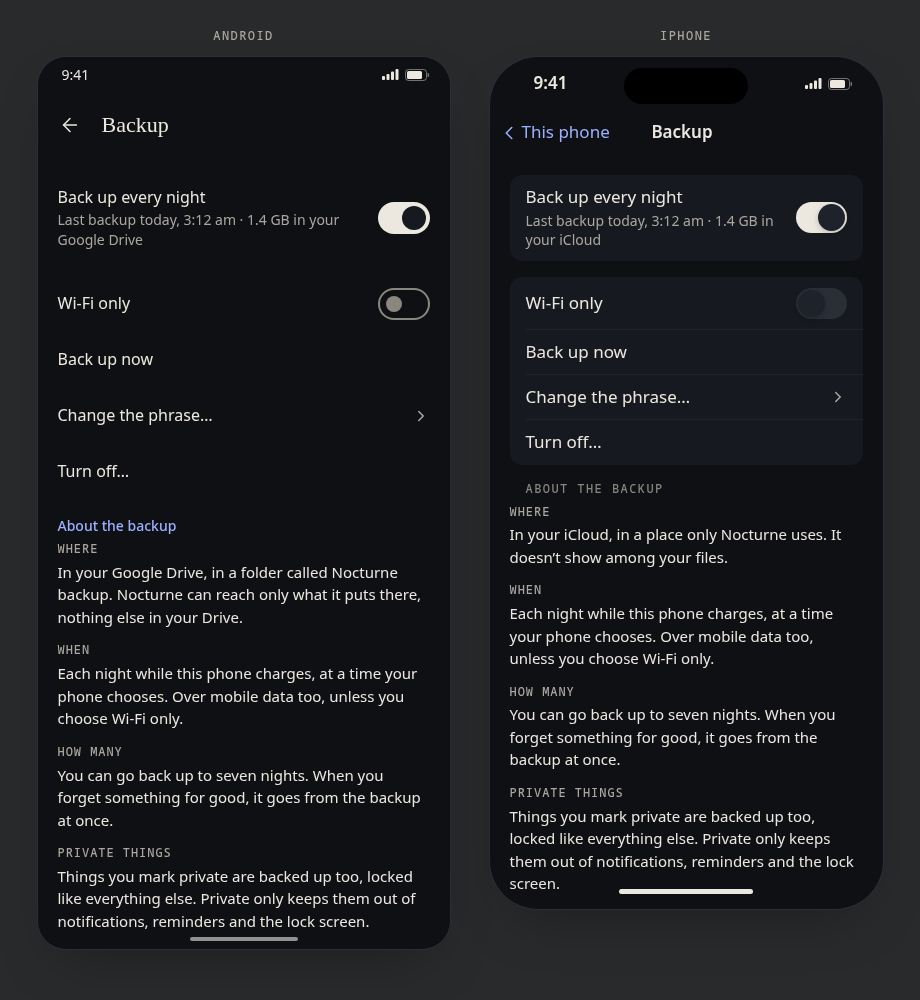
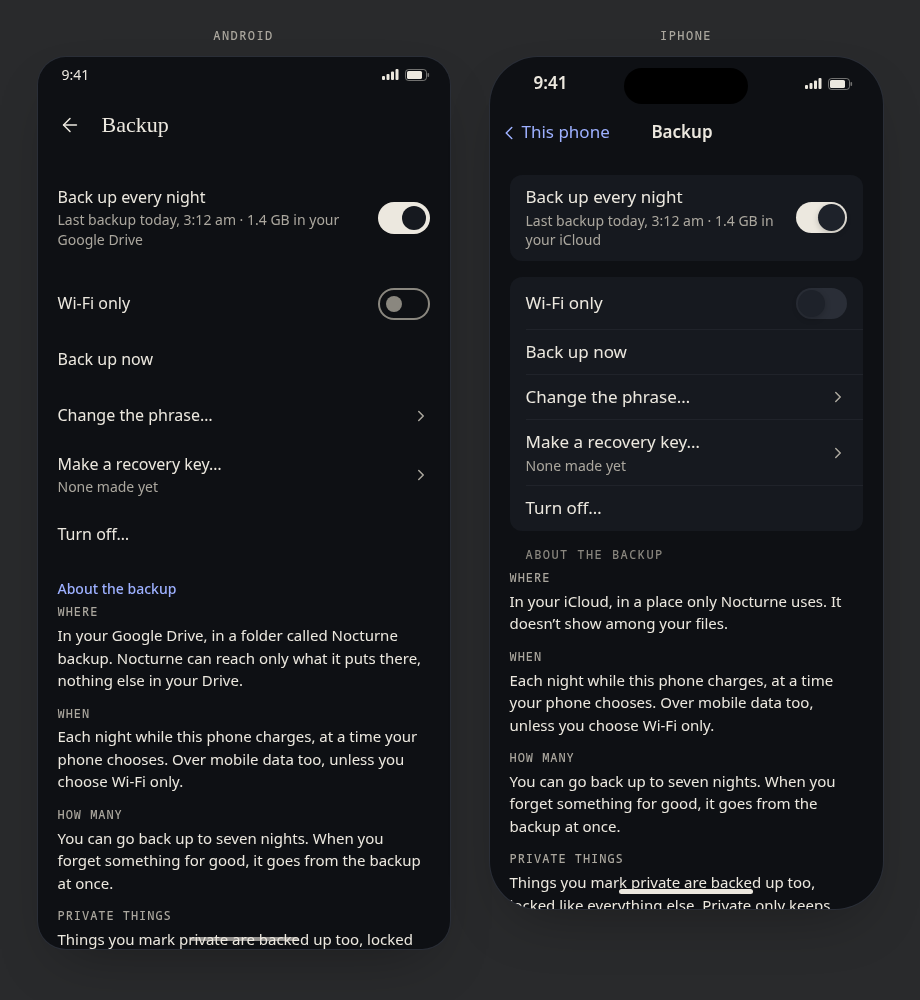
docs(design): settle the phone backup questions

Changed region(s): [[0.0609, 0.527, 0.4565, 0.961], [0.5478, 0.434, 0.913, 0.93], [0.0609, 0.465, 0.1826, 0.496]]

diff --git a/docs/design/mockups/phone-parity/copy-online.html b/docs/design/mockups/phone-parity/copy-online.html
@@ -16,12 +16,14 @@
   "wifi": { "title": "Backup", "back": "This phone" },
   "stopped": { "title": "Backup", "back": "This phone" },
   "off": { "title": "Backup", "back": "This phone" },
+  "makekey": { "title": "Backup", "back": "This phone" },
+  "newkey": { "bar": "none" },
   "today": { "bar": "brand", "title": "Today", "tab": "Today", "keep": true, "action": true },
   "delete": { "bar": "modal", "title": "Delete everything", "back": "Cancel" }
 }
 </script>
 </head>
-<body data-frame="duo" data-states="why blocked passphrase own check key first done on wifi stopped today off delete">
+<body data-frame="duo" data-states="why blocked passphrase own check key first done on wifi stopped today off makekey newkey delete">
 <main id="content">
 
   <!-- Step 1: why, and when it can't go on -->
@@ -109,11 +111,11 @@
   <div class="foot plain" data-state="done"><span class="btn" data-kind="primary">OK</span></div>
 
   <!-- This phone: Backup -->
-  <div class="group" data-state="on wifi stopped off">
+  <div class="group" data-state="on wifi stopped off makekey">
     <div class="rows">
       <div class="row"><span class="rowText"><span class="rowLabel">Back up every night</span>
-        <span class="rowHint" data-state="on off" data-os="ios">Last backup today, 3:12 am · 1.4 GB in your iCloud</span>
-        <span class="rowHint" data-state="on off" data-os="android">Last backup today, 3:12 am · 1.4 GB in your Google Drive</span>
+        <span class="rowHint" data-state="on off makekey" data-os="ios">Last backup today, 3:12 am · 1.4 GB in your iCloud</span>
+        <span class="rowHint" data-state="on off makekey" data-os="android">Last backup today, 3:12 am · 1.4 GB in your Google Drive</span>
         <span class="rowHint" data-state="wifi">Last backup Sunday, 2:40 am · waiting for Wi-Fi</span>
         <span class="rowHint" data-state="stopped">Stopped · last backup Friday, 3:05 am</span>
       </span><span class="sw"></span></div>
@@ -122,11 +124,12 @@
     <div class="say" data-state="stopped" data-os="ios">There’s no room in your iCloud for tonight’s backup. Your last backup from Friday is still there. <span class="link2">Open iCloud settings</span></div>
     <div class="say" data-state="stopped" data-os="android">The Google account your backup uses isn’t on this phone any more, so the backup has stopped. <span class="link2">Choose account</span></div>
   </div>
-  <div class="group" data-state="on wifi stopped off">
+  <div class="group" data-state="on wifi stopped off makekey">
     <div class="rows">
-      <div class="row"><span class="rowText"><span class="rowLabel">Wi-Fi only</span></span><span class="sw off" data-state="on stopped off"></span><span class="sw" data-state="wifi"></span></div>
+      <div class="row"><span class="rowText"><span class="rowLabel">Wi-Fi only</span></span><span class="sw off" data-state="on stopped off makekey"></span><span class="sw" data-state="wifi"></span></div>
       <div class="row"><span class="rowText"><span class="rowLabel">Back up now</span></span></div>
       <div class="row"><span class="rowText"><span class="rowLabel">Change the phrase…</span></span><span class="rowChev" data-icon="chevron-right" data-size="18"></span></div>
+      <div class="row"><span class="rowText"><span class="rowLabel">Make a recovery key…</span><span class="rowHint">None made yet</span></span><span class="rowChev" data-icon="chevron-right" data-size="18"></span></div>
       <div class="row"><span class="rowText"><span class="rowLabel">Turn off…</span></span></div>
     </div>
   </div>
@@ -151,6 +154,24 @@
       <div class="btns"><span class="btn" data-kind="primary">Turn off</span><span class="btn" data-kind="quiet">Keep it on</span></div>
     </div>
   </div>
+
+  <!-- Make a recovery key -->
+  <div class="over" data-state="makekey">
+    <div class="sheetCard">
+      <h2>Make a recovery key?</h2>
+      <p>A recovery key opens your backup if you lose your phrase. It is shown once. If you made one before, it stops working.</p>
+      <div class="btns"><span class="btn" data-kind="primary">Make it</span><span class="btn" data-kind="quiet">Cancel</span></div>
+    </div>
+  </div>
+
+  <!-- A recovery key, made later -->
+  <div class="hero" data-state="newkey" style="padding-top: 40px">
+    <span data-icon="shield" data-size="32"></span>
+    <h1 class="stepH">Your new recovery key</h1>
+    <p class="plead">It opens your backup if you lose your phrase. Print it or save it, and keep it away from this phone. An earlier key no longer works.</p>
+  </div>
+  <p class="rkey" data-state="newkey"><span>M3TD</span> <span>7KWQ</span> <span>4HXN</span> <span>R9CP</span> <span>2BZL</span> <span>8VFG</span></p>
+  <div class="foot plain" data-state="newkey"><span class="btn" data-kind="primary">Print or save…</span><span class="btn" data-kind="quiet">Cancel</span><p class="barLine">Nocturne shows this only once.</p></div>
 
   <!-- Today: the backup has stopped -->
   <p class="pstatus" data-state="today"><span class="pdot"></span>Your memory is on this phone</p>

diff --git a/docs/design/mockups/phone-parity/index.html b/docs/design/mockups/phone-parity/index.html
@@ -35,6 +35,8 @@
     <li><a href="copy-online.html?state=stopped">Stopped</a></li>
     <li><a href="copy-online.html?state=today">Today, the backup has stopped</a></li>
     <li><a href="copy-online.html?state=off">Turn off backup?</a></li>
+    <li><a href="copy-online.html?state=makekey">Make a recovery key?</a></li>
+    <li><a href="copy-online.html?state=newkey">Your new recovery key</a></li>
     <li><a href="copy-online.html?state=delete">Delete everything, with a backup</a></li>
     <li><a href="copy-online-restore.html?state=where">Where is your backup?</a></li>
     <li><a href="copy-online-restore.html?state=found">Bring back your memory</a></li>

diff --git a/docs/design/phone-backup.md b/docs/design/phone-backup.md
@@ -1,7 +1,7 @@
 ---
 type: Design
 title: Backup on a phone of its own
-description: Proposal for the nightly backup of a phone that is its own home, to the person's own iCloud or Google Drive, locked with a phrase only they hold, with every screen and state of turning it on, This phone, turning it off, restoring onto an empty phone or bringing a backup into a phone that already holds a memory, forgetting and Delete everything, copy, behaviour and open questions.
+description: Proposal for the nightly backup of a phone that is its own home, to the person's own iCloud or Google Drive, locked with a phrase only they hold, with every screen and state of turning it on, This phone, turning it off, restoring onto an empty phone or bringing a backup into a phone that already holds a memory, forgetting and Delete everything, copy, behaviour and the owner's decisions.
 status: draft
 tags: [proposal, ux, phone, backup, privacy, copy]
 ---
@@ -24,7 +24,7 @@ its own action.
 | "Wi-Fi only" is a setting, off by default | [Step 3](#step-3-check-the-phrase), [This phone](#backup-in-this-phone) |
 | The phone's own account: the app's own iCloud space on iPhone; the person's Google Drive, only the files Nocturne makes, on Android, with Google's one-time permission | [Where it goes](#where-it-goes) |
 | A random phrase of six words, or the person's own, shown once and confirmed | [Step 2](#step-2-the-phrase), [Step 3](#step-3-check-the-phrase) |
-| An optional recovery key | [A recovery key](#a-recovery-key-offered-once) |
+| An optional recovery key, offered at turn on and made later in This phone | [A recovery key](#a-recovery-key-offered-once), [Make a recovery key](#make-a-recovery-key) |
 | Export is separate | [Backups to a file](phone-first.md#backups-to-a-file), unchanged |
 | Restore onto a new or reset phone | [Onto an empty phone](#onto-an-empty-phone) |
 | Restore onto a phone that already holds a memory brings the backup's things in, as a move into a computer that holds one does | [Onto a phone that has a memory](#onto-a-phone-that-has-a-memory) |
@@ -53,6 +53,8 @@ cent, the screen grown to show all of it) work on every state.
 | This phone, stopped: no room; signed out | `copy-online.html?state=stopped` | `copy-online-stopped-light.png` |
 | Today, the backup has stopped | `copy-online.html?state=today` | `copy-online-today-light.png` |
 | Turn off backup? | `copy-online.html?state=off` | `copy-online-off-light.png` |
+| Make a recovery key? | `copy-online.html?state=makekey` | `copy-online-makekey-light.png` |
+| Your new recovery key | `copy-online.html?state=newkey` | `copy-online-newkey-light.png` |
 | Delete everything, with a backup | `copy-online.html?state=delete` | `copy-online-delete-light.png` |
 | Where is your backup? | `copy-online-restore.html?state=where` | `copy-online-restore-where-light.png` |
 | Found: type the phrase | `copy-online-restore.html?state=found` | `copy-online-restore-found-light.png`, `copy-online-restore-found-dark.png`, `copy-online-restore-found-200-light.png` |
@@ -233,7 +235,8 @@ again: it is not kept on the phone in a form that can be shown.
 
 ### A recovery key, offered once
 
-Straight after "Turn on", once, and never again unprompted:
+Straight after "Turn on", once, and never again unprompted. A person who says "Not now" can make one
+later with [Make a recovery key](#make-a-recovery-key):
 
 | Part | Copy |
 |---|---|
@@ -284,6 +287,7 @@ Under Your memory, the row "Backup" shows "Off" or the up to date line, and open
 | Row | "Wi-Fi only" (switch) |
 | Row | "Back up now" / while it runs: "Backing up · {done} of {size}" |
 | Row | "Change the phrase…" |
+| Row | "Make a recovery key…" / hint "None made yet", or "Made {day}" |
 | Row | "Turn off…" |
 | About heading | "About the backup", then the expander's labels and lines from "Where" to "A phone that already has a memory" |
 
@@ -331,6 +335,26 @@ No system notifications about the backup. On Today, as one card, at most once fo
 recovery key you saved still works." / "Change it" · "Cancel". Then steps 2 and 3, with "Save" for
 "Turn on". The key is locked again with the new phrase in the next backup; nothing else is sent
 again.
+
+### Make a recovery key
+
+"Make a recovery key…" is for a person who said "Not now" when it was offered, or who lost a key
+they made. It asks first, then shows the key once, as at turn on.
+
+| Part | Copy |
+|---|---|
+| Ask, title | "Make a recovery key?" |
+| Ask, body | "A recovery key opens your backup if you lose your phrase. It is shown once. If you made one before, it stops working." |
+| Ask, buttons | "Make it" · "Cancel" |
+| Title | "Your new recovery key" |
+| Body | "It opens your backup if you lose your phrase. Print it or save it, and keep it away from this phone. An earlier key no longer works." |
+| Key | Six groups of four letters and numbers, in large type |
+| Buttons | "Print or save…" (the phone's own print and share sheet) · "Cancel" |
+| Foot | "Nocturne shows this only once." |
+
+The new key locks the same backup key as the phrase does, in the next backup; nothing else is sent
+again. "Cancel" before "Print or save…" keeps the earlier key, if any. After it the button reads
+"Done". The row's hint reads "None made yet" until a key is made, then "Made {day}".
 
 ### Turn off
 
@@ -488,6 +512,11 @@ The words below follow that screen's.
 
 "Not now" leaves the phone exactly as it was.
 
+This is the one restore on a phone that has a memory, for a backup from the account and for a backup
+file alike. The first release's "Put aside" restore ends with the release that ships the nightly
+backup; what it already put aside stays as it is. Once the things are in, there is no undo: nothing
+that was on the phone is lost, and anything that came in can be forgotten like any other thing.
+
 | Stage | Copy |
 |---|---|
 | Preparing | "Bringing in your backup" / "Getting your things ready…" with a moving bar and "Stop" |
@@ -616,12 +645,14 @@ When the nightly backup ships, these first release screens change; nothing chang
 | This phone, "Restore a backup…" | Hint "A backup’s things join what’s on this phone. Nothing here is deleted." |
 | Delete everything | [As above](#forgetting-delete-everything-and-private) |
 
-## Open questions for the owner
+## Decisions
 
-| # | Question | Options | Recommendation |
-|---|---|---|---|
-| 1 | A backup file restored onto a phone that has a memory: the first release puts what is there aside (0013's replace) | A: switch it to the same bringing in, so a phone has one restore. B: keep replace for files | **A**, from the release that ships this backup; "Put aside" screens stay for what was put aside before |
-| 2 | A person who said "Not now" to the recovery key | A: "Make a recovery key…" in This phone, which replaces any earlier key, shown once. B: offered only at turn on | **A**: losing the phrase should not depend on one tap months earlier |
-| 3 | Delete everything while the phone is offline | A: delete the phone at once, the backup when next online, as designed. B: ask the person to go online first | **A**: Delete everything never waits; the line says what is left and how to remove it by hand |
-| 4 | A backup that stops for something only the person can fix | A: once on Today, no system notification, as designed. B: also a system notification | **A**, the calm presence principle |
-| 5 | Undoing a restore that brought things in | A: not offered, as with a computer bringing a phone's things in. B: put a copy of the phone aside first | **A**: nothing on the phone is lost, and anything that came in can be forgotten |
+Settled by the owner on 2026-11-24, each as recommended.
+
+| # | Decision | Where it lands |
+|---|---|---|
+| 1 | A backup file restored onto a phone that has a memory brings its things in, as a backup from the account does, from the release that ships the nightly backup. A phone has one restore. "Put aside" screens stay for what was put aside before | [Onto a phone that has a memory](#onto-a-phone-that-has-a-memory) |
+| 2 | A person who said "Not now" to the recovery key can make one later with "Make a recovery key…" in This phone. It replaces any earlier key and is shown once | [Make a recovery key](#make-a-recovery-key) |
+| 3 | Delete everything while the phone is offline deletes the phone at once and the backup when next online. The line says what is left and how to remove it by hand | [Delete everything, with a backup](#forgetting-delete-everything-and-private) |
+| 4 | A backup that stops for something only the person can fix shows once on Today, with no system notification | [On Today](#on-today) |
+| 5 | A restore that brought things in has no undo. Nothing on the phone was lost, and anything that came in can be forgotten | [Onto a phone that has a memory](#onto-a-phone-that-has-a-memory) |

diff --git a/docs/design/phone-parity.md b/docs/design/phone-parity.md
@@ -40,7 +40,7 @@ of the design. All names and data are fictional.
 |---|---|---|
 | First run on a phone, and Today with no mind | `first-run.html`: `welcome`, `start`, `today`, `ask` | [Phone first](phone-first.md#screens) |
 | The first release of a phone alone | `first-release.html`: `welcome`, `start`, `today`, `reminder`, `full`, `ask`, `mind`, `backup`, `saved`, `restore`, `item`, `this-phone`, `calendar`, `health`, `delete`, `damaged` | [Phone first](phone-first.md#mockups-for-the-first-release) |
-| Backup (a locked copy online) | `copy-online.html`: `why`, `blocked`, `passphrase`, `own`, `check`, `key`, `first`, `done`, `on`, `wifi`, `stopped`, `today`, `off`, `delete`; `copy-online-restore.html`: `where`, `found`, `nights`, `wrong`, `none`, `getting`, `missing`, `restored`, `in-use`, `merge`, `adding`, `merged` | [Phone backup](phone-backup.md#mockups) |
+| Backup (a locked copy online) | `copy-online.html`: `why`, `blocked`, `passphrase`, `own`, `check`, `key`, `first`, `done`, `on`, `wifi`, `stopped`, `today`, `off`, `makekey`, `newkey`, `delete`; `copy-online-restore.html`: `where`, `found`, `nights`, `wrong`, `none`, `getting`, `missing`, `restored`, `in-use`, `merge`, `adding`, `merged` | [Phone backup](phone-backup.md#mockups) |
 | Choosing a mind | `mind.html`: `choose`, `service`, `consent`, `apple`, `first-page` | [Phone first](phone-first.md#choosing-a-mind) |
 | Joining a household, and a passphrase for making it your home | `household.html`: `found`, `see`, `passphrase`, `words`, `joined` | [Household](household-server.md#joining) |
 | The mind is away | `away.html`: `today`, `journal`, `back`, `removed` | [Household](household-server.md#states) |

diff --git a/docs/logs/2026-11/24-settled-the-phone-backup-questions.md b/docs/logs/2026-11/24-settled-the-phone-backup-questions.md
@@ -1,0 +1,21 @@
+---
+type: Log Entry
+title: "Settled the phone backup's open questions."
+description: "A recovery key can be made later in This phone, a backup file restored onto a phone with a memory brings its things in, and the other three questions stay as designed."
+tags: [log, update]
+kind: Changed
+status: stable
+---
+
+The owner settled the five open questions of [Backup on a phone of its own](/design/phone-backup.md#decisions),
+each as recommended.
+
+- A recovery key can be made later in This phone with "Make a recovery key…". It replaces any earlier
+  key and shows the new one once. The page gains its copy and two mockup states.
+- A backup file restored onto a phone that has a memory brings its things in, as a backup from the
+  account does, from the release that ships the nightly backup.
+- Delete everything while offline deletes the phone at once and the backup when next online.
+- A stopped backup shows once on Today, with no notification.
+- A restore that brought things in has no undo.
+
+The page's open questions are now its decisions.

diff --git a/docs/adr/0019-a-locked-copy-online.md b/docs/adr/0019-a-locked-copy-online.md
@@ -36,7 +36,7 @@ apps, and a backup that needs the person to set up a folder is not automatic. Th
   locks them; it is kept locked with the person's phrase and, if they made one, with a recovery key.
   Nocturne offers a random phrase of six everyday words by default; the person may type their own
   and is warned only when it is easy to guess, with no rules about symbols, capitals or length. The
-  recovery key is offered once, to print or save. The key itself is kept in the phone's own safe
+  recovery key is offered once, to print or save, and can be made later in This phone. The key itself is kept in the phone's own safe
   place, so nightly backups need no phrase. Neither the account's company nor Nocturne's makers can
   open a backup.
 - **Seven nights, and forgetting reaches it.** Seven nightly indexes are kept; a piece no kept index

diff --git a/docs/design/phone-first.md b/docs/design/phone-first.md
@@ -175,9 +175,9 @@ aside on the same day, each label adds its time: "Put aside {day}, {time}…".
 | | Buttons | "Delete" (careful) · "Keep it" |
 
 When the nightly backup ships, "I have a backup" opens [Where is your
-backup?](phone-backup.md#where-is-your-backup), and restoring onto a phone that holds a memory may
-bring the backup's things in instead of putting the memory aside ([open question
-1](phone-backup.md#open-questions-for-the-owner)).
+backup?](phone-backup.md#where-is-your-backup), and restoring onto a phone that holds a memory
+brings the backup's things in instead of putting the memory aside ([decision
+1](phone-backup.md#decisions)).
 
 ### Behaviour
 
